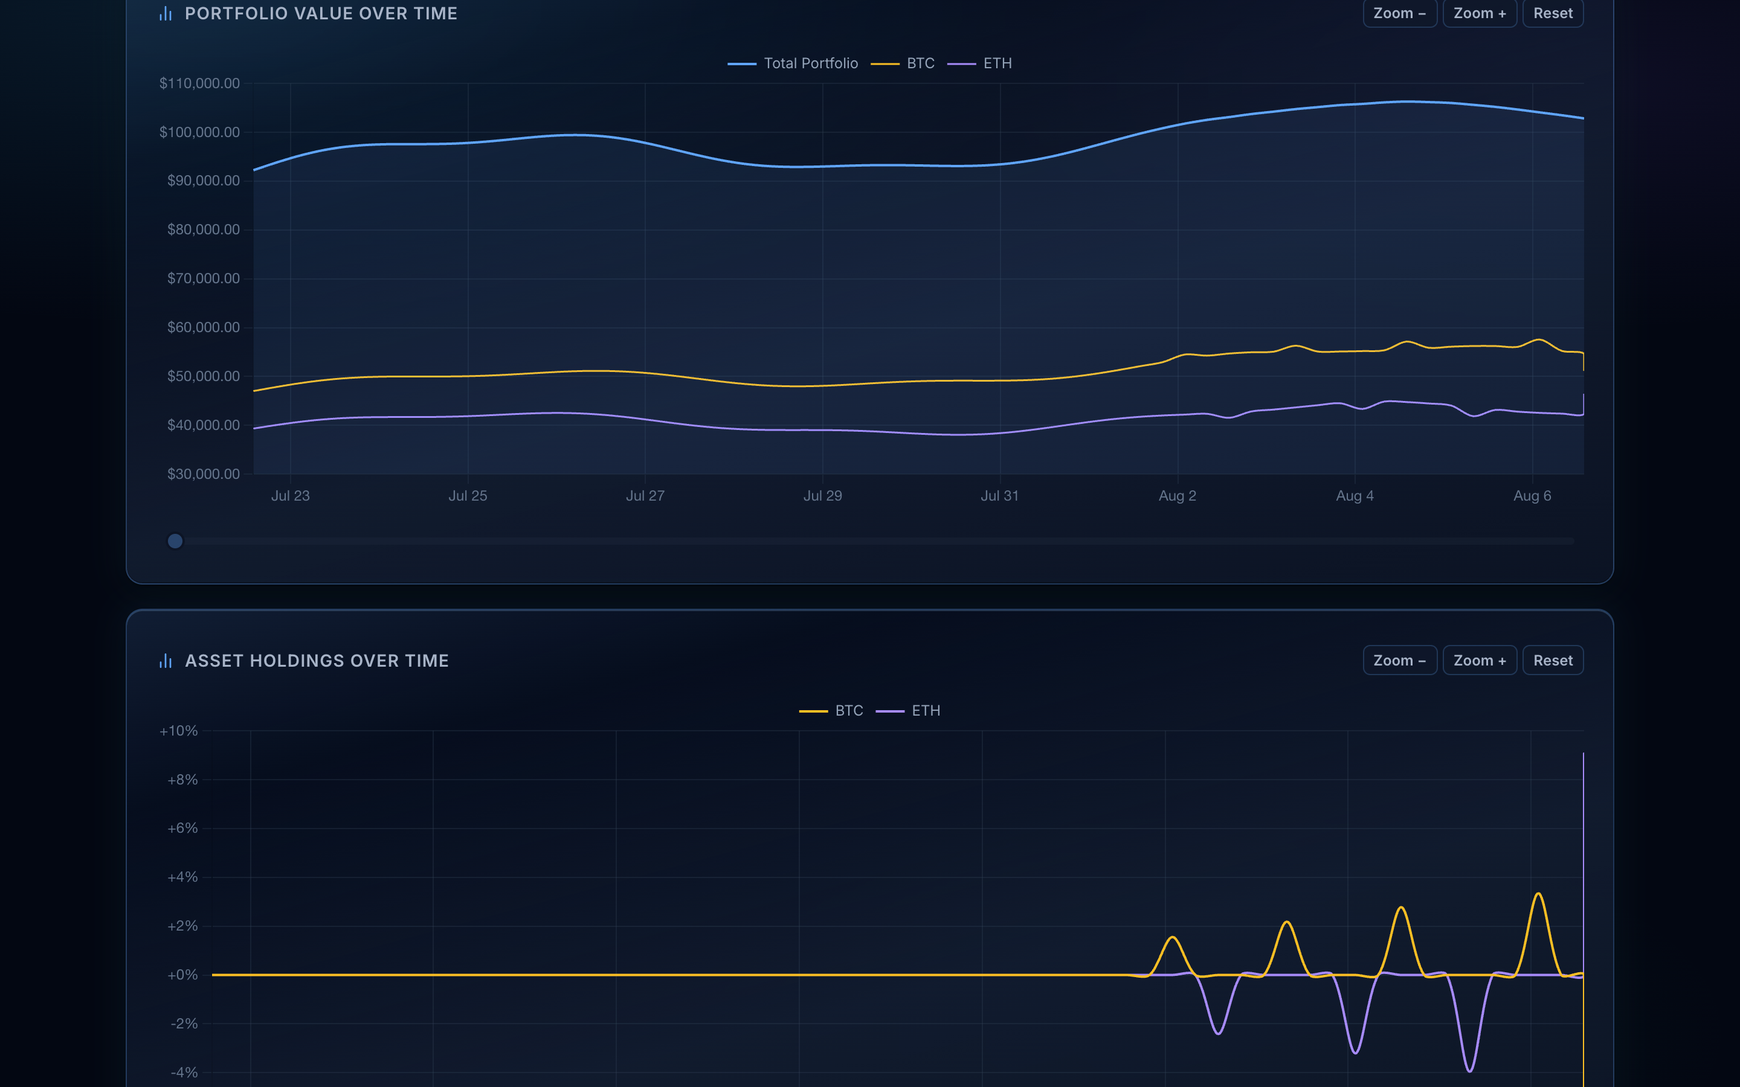
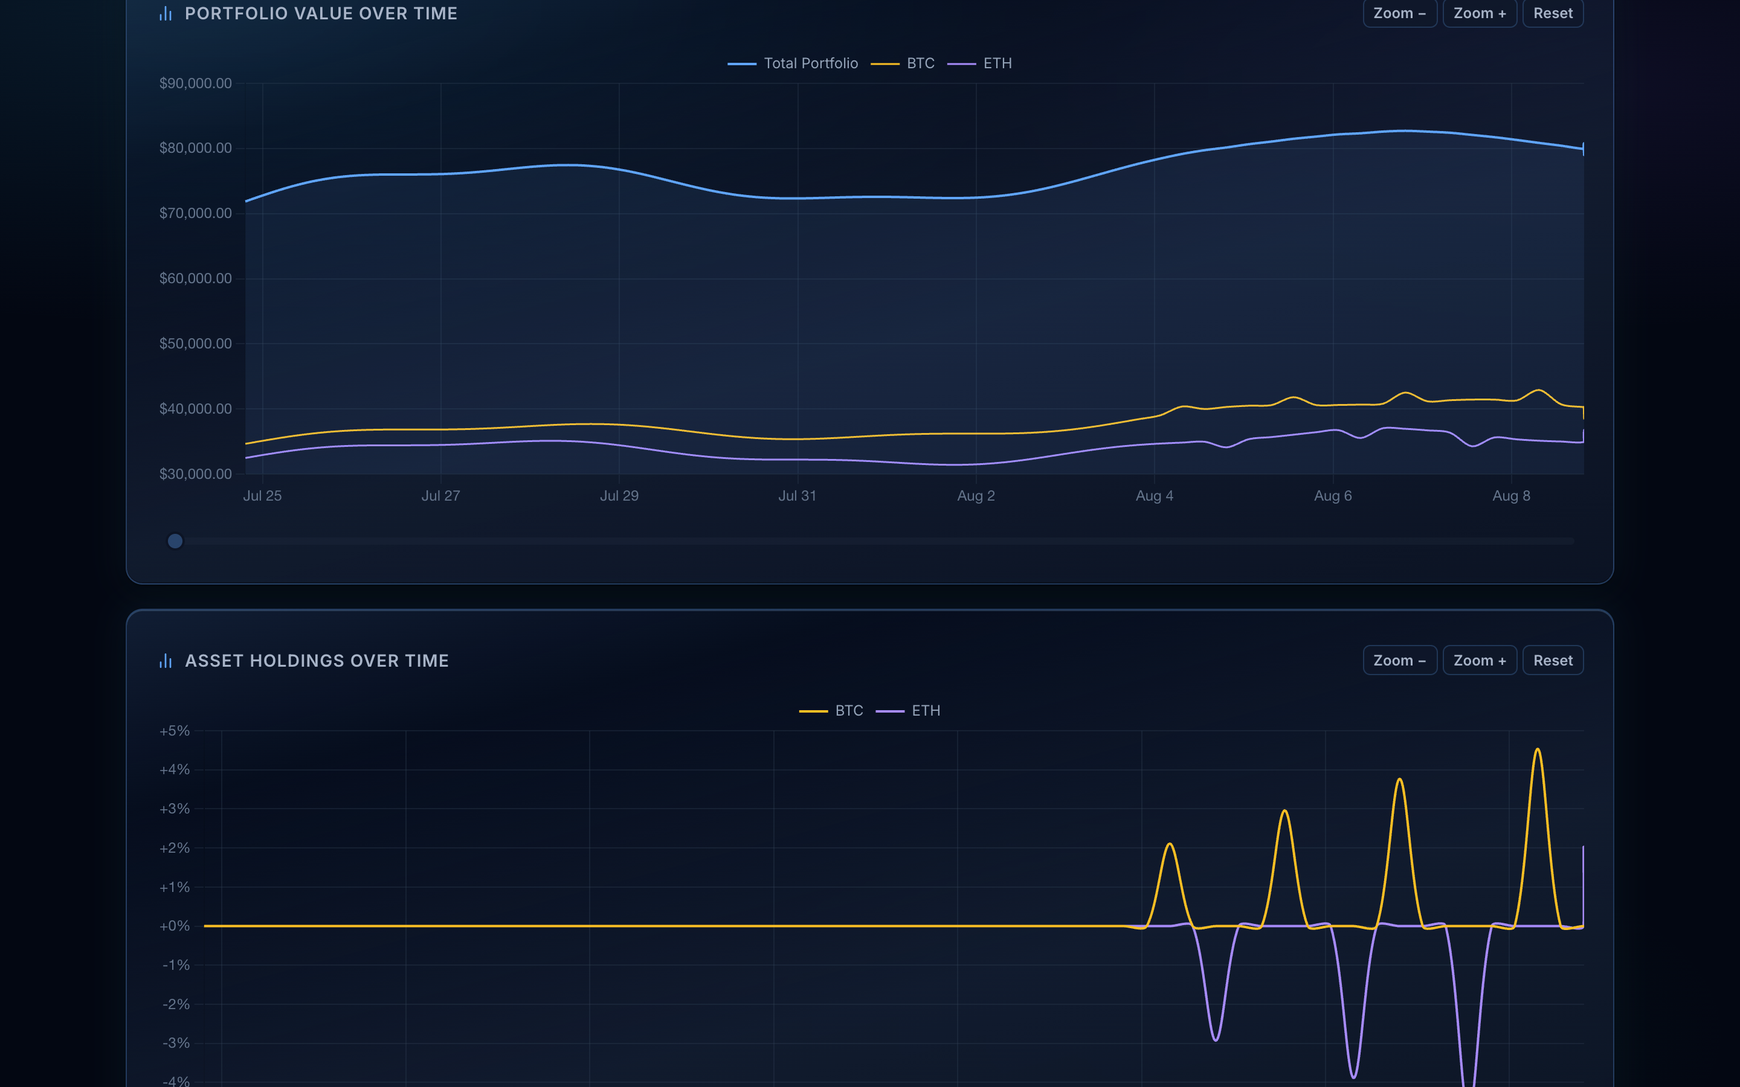
fix: harden operator loop controls and sync docs

diff --git a/src/test/kotlin/com/gemini/krakenbot/controller/ServerFeaturesIntegrationTest.kt b/src/test/kotlin/com/gemini/krakenbot/controller/ServerFeaturesIntegrationTest.kt
@@ -26,9 +26,13 @@ import io.kotest.matchers.string.shouldNotContain
 import io.ktor.client.request.get
 import io.ktor.client.request.header
 import io.ktor.client.request.post
+import io.ktor.client.request.setBody
 import io.ktor.client.statement.bodyAsText
+import io.ktor.http.ContentType
 import io.ktor.http.HttpHeaders
 import io.ktor.http.HttpStatusCode
+import io.ktor.http.formUrlEncode
+import io.ktor.http.parametersOf
 import io.ktor.server.application.install
 import io.ktor.server.routing.get
 import io.ktor.server.routing.routing
@@ -36,9 +40,13 @@ import io.ktor.server.sse.SSE
 import io.ktor.server.testing.testApplication
 import io.mockk.every
 import io.mockk.mockk
+import io.mockk.verify
 import org.koin.core.context.startKoin
 import org.koin.core.context.stopKoin
 import org.koin.dsl.module
+
+private const val TEST_CSRF_TOKEN = "test-token"
+private const val TEST_CSRF_COOKIE = "rebalancer-csrf=$TEST_CSRF_TOKEN"
 
 class ServerFeaturesIntegrationTest : StringSpec() {
     override fun isolationMode() = IsolationMode.InstancePerTest
@@ -165,7 +173,11 @@ class ServerFeaturesIntegrationTest : StringSpec() {
                     install(SSE)
                     dashboardRouting()
                 }
-                val pauseResponse = client.post("/api/pause")
+                val pauseResponse = client.post("/api/pause") {
+                    setBody(parametersOf("csrfToken", TEST_CSRF_TOKEN).formUrlEncode())
+                    header(HttpHeaders.ContentType, ContentType.Application.FormUrlEncoded.toString())
+                    header(HttpHeaders.Cookie, TEST_CSRF_COOKIE)
+                }
                 pauseResponse.status shouldBe HttpStatusCode.OK
                 pauseResponse.bodyAsText() shouldContain "true"
 
@@ -180,13 +192,43 @@ class ServerFeaturesIntegrationTest : StringSpec() {
                     install(SSE)
                     dashboardRouting()
                 }
-                client.post("/api/pause")
-                val resumeResponse = client.post("/api/resume")
+                client.post("/api/pause") {
+                    setBody(parametersOf("csrfToken", TEST_CSRF_TOKEN).formUrlEncode())
+                    header(HttpHeaders.ContentType, ContentType.Application.FormUrlEncoded.toString())
+                    header(HttpHeaders.Cookie, TEST_CSRF_COOKIE)
+                }
+                val resumeResponse = client.post("/api/resume") {
+                    setBody(parametersOf("csrfToken", TEST_CSRF_TOKEN).formUrlEncode())
+                    header(HttpHeaders.ContentType, ContentType.Application.FormUrlEncoded.toString())
+                    header(HttpHeaders.Cookie, TEST_CSRF_COOKIE)
+                }
                 resumeResponse.status shouldBe HttpStatusCode.OK
                 resumeResponse.bodyAsText() shouldContain "false"
 
                 val healthAfterResume = client.get("/api/health")
                 healthAfterResume.bodyAsText() shouldContain "\"paused\":false"
+            }
+        }
+
+        "pause and resume endpoints reject requests without CSRF" {
+            testApplication {
+                application {
+                    install(SSE)
+                    dashboardRouting()
+                }
+                val pauseResponse = client.post("/api/pause") {
+                    setBody(parametersOf().formUrlEncode())
+                    header(HttpHeaders.ContentType, ContentType.Application.FormUrlEncoded.toString())
+                }
+                val resumeResponse = client.post("/api/resume") {
+                    setBody(parametersOf().formUrlEncode())
+                    header(HttpHeaders.ContentType, ContentType.Application.FormUrlEncoded.toString())
+                }
+
+                pauseResponse.status shouldBe HttpStatusCode.Forbidden
+                resumeResponse.status shouldBe HttpStatusCode.Forbidden
+                verify(exactly = 0) { portfolioManager.pauseLoop() }
+                verify(exactly = 0) { portfolioManager.resumeLoop() }
             }
         }
     }

diff --git a/src/main/kotlin/com/gemini/krakenbot/service/impl/PortfolioManagerImpl.kt b/src/main/kotlin/com/gemini/krakenbot/service/impl/PortfolioManagerImpl.kt
@@ -58,17 +58,18 @@ class PortfolioManagerImpl(
     private var applicationScope: CoroutineScope? = null
 
     override fun stopRebalancingLoop() {
-        val job = synchronized(lifecycleLock) {
+        synchronized(lifecycleLock) {
             isRunning = false
-            workerJob
+            isPaused = false
+            workerJob?.cancel()
         }
-        job?.cancel()
         log.info("Rebalancing loop stopped.")
     }
 
     override fun startRebalancingLoop() {
         synchronized(lifecycleLock) {
             isRunning = true
+            isPaused = false
         }
         log.info("Rebalancing loop started.")
     }
@@ -77,6 +78,7 @@ class PortfolioManagerImpl(
         val job = synchronized(lifecycleLock) {
             applicationScope = scope
             isRunning = true
+            isPaused = false
             val staleJob = workerJob
             if (staleJob != null && staleJob.isActive) {
                 staleJob
@@ -102,18 +104,14 @@ class PortfolioManagerImpl(
         synchronized(lifecycleLock) {
             isRunning = false
             isPaused = true
+            workerJob?.cancel()
         }
-        workerJob?.cancel()
         log.info("Rebalancing loop paused by operator.")
     }
 
     override fun resumeLoop() {
         val scope = applicationScope
             ?: throw IllegalStateException("Cannot resume without an active application scope")
-        synchronized(lifecycleLock) {
-            isRunning = true
-            isPaused = false
-        }
         startRebalancingLoop(scope)
         log.info("Rebalancing loop resumed.")
     }

diff --git a/src/test/kotlin/com/gemini/krakenbot/service/PortfolioManagerLoopTest.kt b/src/test/kotlin/com/gemini/krakenbot/service/PortfolioManagerLoopTest.kt
@@ -476,7 +476,24 @@ class PortfolioManagerLoopTest : StringSpec() {
                 every { configService.getConfig() } returns config
                 krakenService.balanceSupplier = { emptyMap() }
 
-                portfolioManager.startRebalancingLoop(this)
+                val firstWorkerStarted = CompletableDeferred<Unit>()
+                val secondWorkerStarted = CompletableDeferred<Unit>()
+                var startupSyncCalls = 0
+                coEvery { tradeHistoryService.syncLedgersFromKraken() } coAnswers {
+                    startupSyncCalls++
+                    when (startupSyncCalls) {
+                        1 -> {
+                            firstWorkerStarted.complete(Unit)
+                            awaitCancellation()
+                        }
+
+                        2 -> secondWorkerStarted.complete(Unit)
+                    }
+                }
+
+                val initialWorker = portfolioManager.startRebalancingLoop(this)
+                runCurrent()
+                firstWorkerStarted.isCompleted shouldBe true
                 portfolioManager.pauseLoop()
                 portfolioManager.isLoopPaused() shouldBe true
 
@@ -484,7 +501,9 @@ class PortfolioManagerLoopTest : StringSpec() {
                 runCurrent()
 
                 portfolioManager.isLoopPaused() shouldBe false
+                secondWorkerStarted.isCompleted shouldBe true
                 portfolioManager.stopRebalancingLoop()
+                initialWorker.join()
             }
         }
 

diff --git a/src/main/kotlin/com/gemini/krakenbot/controller/DashboardController.kt b/src/main/kotlin/com/gemini/krakenbot/controller/DashboardController.kt
@@ -366,13 +366,22 @@ class DashboardController(
     }
 
     private suspend fun RoutingContext.handlePostPause() {
+        if (!requireCsrf()) return
         portfolioManager.pauseLoop()
         respondJson(mapOf("paused" to true))
     }
 
     private suspend fun RoutingContext.handlePostResume() {
+        if (!requireCsrf()) return
         portfolioManager.resumeLoop()
         respondJson(mapOf("paused" to false))
+    }
+
+    private suspend fun RoutingContext.requireCsrf(): Boolean {
+        val params = call.receiveParameters()
+        if (CsrfProtection.isValid(call, params)) return true
+        call.respond(HttpStatusCode.Forbidden)
+        return false
     }
 
     private suspend fun RoutingContext.handleGetHealth() {

diff --git a/src/main/kotlin/com/gemini/krakenbot/controller/CsrfProtection.kt b/src/main/kotlin/com/gemini/krakenbot/controller/CsrfProtection.kt
@@ -11,7 +11,7 @@ import java.security.MessageDigest
 import java.security.SecureRandom
 import java.util.Base64
 
-/** Double-submit protection for the unauthenticated, LAN-accessible settings form. */
+/** Double-submit protection for unauthenticated, LAN-accessible mutations. */
 internal object CsrfProtection {
     private const val COOKIE_NAME = "rebalancer-csrf"
     private const val TOKEN_BYTES = 32

diff --git a/README.md b/README.md
@@ -107,13 +107,13 @@ with `npm install -g @slkiser/opencode-quota` if needed.
 | --------------- | ------------------------------------------------------------------------------------------------------------ |
 | **Language**    | Kotlin 2.4.10 (Kotlin Multiplatform: JVM + JS)                                                               |
 | **Backend**     | Ktor 3.5.2 (Netty engine), Koin 4.2.2 (DI), Jackson 2.22.1                                                   |
-| **Database**    | SQLite (via JetBrains Exposed ORM 1.3.1)                                                                     |
+| **Database**    | SQLite (via JetBrains Exposed ORM 1.4.0)                                                                     |
 | **HTTP Client** | Ktor CIO Client (async, coroutine-native)                                                                    |
 | **Concurrency** | Kotlin Coroutines (`kotlinx.coroutines` 1.11.0)                                                              |
 | **Frontend**    | Server-side HTML (kotlinx.html DSL + HTMX), kotlinx-css DSL, Ktor SSE + Client-side Kotlin/JS                |
 | **API**         | Kraken REST API with HMAC-SHA512 authentication                                                              |
-| **Testing**     | Kotest 6.2.3, MockK 1.14.11, JaCoCo (95% instr/95% line/95% method/90% branch), Karma/Istanbul (90/90/90/75) |
-| **Build**       | Gradle 9.6.1 (Kotlin DSL), Spotless 8.9.0 + ktlint 1.7.1                                                     |
+| **Testing**     | Kotest 6.2.3, MockK 1.14.11, JaCoCo 95/95/95/90, Karma/Istanbul 90/80/90/75                                  |
+| **Build**       | Gradle 9.7.0 (Kotlin DSL), Spotless 8.9.0 + ktlint 1.8.0                                                     |
 | **Codegen**     | JVM-only module with KSP processors for API mappers and YAML string catalogs                                 |
 | **Agent tools** | Optional Kilo Context Mode plugin for bounded large-output analysis; standard workflows remain portable      |
 
@@ -233,12 +233,12 @@ with a wide range of tools and paradigms:
 | **Languages**          | Kotlin 2.4 (current), Kotlin 2.x, Java 25, Go 1.26, TypeScript (all phases documented in CHANGELOG)                                   |
 | **Backend Frameworks** | Ktor 3.5.2 (current), Spring Boot 4, Ktor 2.3, NestJS, Express, Go `net/http`                                                         |
 | **DI / IoC**           | Koin 4.2.2 (current), Spring IoC (`@Autowired`), Koin 3.5, NestJS modules                                                             |
-| **Build Systems**      | Gradle 9.6.1 Kotlin DSL (current), Maven, npm / yarn, Go modules                                                                      |
+| **Build Systems**      | Gradle 9.7.0 Kotlin DSL (current), Maven, npm / yarn, Go modules                                                                      |
 | **Frontend**           | Kotlin/JS + kotlinx.html + HTMX (current), React, Angular (explored), Tailwind CSS v4, Chart.js                                       |
 | **HTTP Clients**       | Ktor CIO Client (current), OkHttp, Node.js native `fetch`, Go `net/http`                                                              |
 | **Concurrency**        | Kotlin Coroutines (current), Java `ScheduledExecutorService`, Go goroutines, Node.js event loop                                       |
 | **Testing**            | Kotest 6 + MockK + Karma/Istanbul (current), JUnit 5, Mockito, Vitest, Go `testing`                                                   |
-| **Coverage**           | JaCoCo 95%+ (Kotlin JVM), Karma/Istanbul 90/90/90/75 (Kotlin/JS) (current); Vitest, Go per-package gates (historical)                 |
+| **Coverage**           | JaCoCo 95%+ (Kotlin JVM), Karma/Istanbul 90/80/90/75 (Kotlin/JS) (current); Vitest, Go per-package gates (historical)                 |
 | **Serialization**      | Jackson 2.22.1, Go `encoding/json`, Zod schema validation                                                                             |
 | **Real-Time**          | Ktor Server-Sent Events (SSE), Kotlin `SharedFlow` (config changes + snapshot broadcasts), HTMX SSE extension                         |
 | **CI / Security**      | GitHub Actions, Dependabot, SHA-pinned actions, CVE patching (Netty, Logback, Jackson); CodeQL Java/Kotlin analysis enabled on `main` |
@@ -756,6 +756,8 @@ If you are modifying the client-side code in `frontend-js/` and want to compile 
 | `GET`  | `/fragments/dashboard`       | Dashboard fragment (HTMX)                                                |
 | `GET`  | `/api/status/stream`         | Server-Sent Events (SSE) stream for real-time portfolio snapshot updates |
 | `GET`  | `/api/health`                | Public health check endpoint returning app status and metrics (JSON)     |
+| `POST` | `/api/pause`                 | Pause loop (CSRF-protected)                                              |
+| `POST` | `/api/resume`                | Resume loop (CSRF-protected)                                             |
 | `GET`  | `/api/history/snapshots`     | Portfolio snapshots for History charts (JSON, `?range=`)                 |
 | `GET`  | `/api/history/trades`        | Trade log for History page (JSON, `?range=`)                             |
 | `GET`  | `/api/history/stats`         | History summary-card aggregates (JSON, `?range=`)                        |
@@ -799,7 +801,7 @@ To run JVM tests only:
 
 ### Frontend Kotlin/JS Tests
 
-The client-side browser logic is tested via Chrome Headless using Karma and verified with Istanbul code coverage check thresholds (**90% statements, 90% lines, 90% functions, 75% branches**).
+The client-side browser logic is tested via Chrome Headless using Karma and verified with Istanbul code coverage check thresholds (**90% statements, 80% functions, 90% lines, 75% branches**).
 
 To run JS browser tests only:
 

diff --git a/CHANGELOG.md b/CHANGELOG.md
@@ -22,6 +22,10 @@ to [Semantic Versioning](https://semver.org/spec/v2.0.0.html).
 - **Model router**: Fixed two Artificial Analysis benchmark-matching defects that made otherwise-eligible routes permanently invisible to selection. Routes whose capability cannot be assessed are never considered, so a failed match silently removed a model: (1) creator-prefixed catalog display names (`Tencent: Hy3`) failed to match bare AA rows (`hy3` plus a separate `model_creator` field) because for short model names the creator affix dominates similarity scoring — AA rows are now also matched on their creator-qualified spellings; (2) a trailing free-tier marker (`tencent/hy3:free`) scored 0.839 against the neighbouring `hy3-preview` row versus 0.833 against the correct `hy3` row, landing free variants on a benchmark row with no coding index — the marker is now stripped so a free variant matches the same row as its paid twin. A new `AA_MATCHER_VERSION` participates in the match-cache fingerprint so cached negative matches from an older matcher are recomputed rather than pinned (300 of 642 cached routes were pinned unmatched). Benchmark coverage rose from 342/642 to 486/656 routes.
 - **Comprehensive Quality Overhaul skill**: Documented launcher mechanics for implementer tracks after the first live run — `subagents.py` defaults `--timeout` to 900s, which killed 2 of 5 tracks mid-edit, so implementer waves (including retries) must pass `--timeout 1800`; `exit_code: None` at the timeout value means timed out while `exit_code: 1` means the worker errored; `--allow-edits` sets `read_only=False` for every track, which makes each worker's working directory the parent repo root rather than its worktree, so manifests must scope owned paths to `.worktrees/wt-<track>/` and every prompt must state the working-directory rule; and workers must write each finding's JSON immediately after implementing it, because a worker that dies mid-task otherwise leaves implemented code with no record of what it changed. Added a finalize-only retry pattern that closes out a failed track's substantial partial diff (make it self-consistent, document it, no new work) without consuming the one-retry allowance, and corrected Step 1, which still described workers as read-only while the rest of the skill treated them as implementers.
 
+- **Build/toolchain upgrades**: Updated Exposed `1.3.1` → `1.4.0`, ktlint `1.7.1` → `1.8.0`, kotlin-css-jvm `2026.7.7` → `2026.8.0`, and the Gradle wrapper `9.6.1` → `9.7.0`.
+- **CSS organization**: Split the monolithic navigation stylesheet into focused view/css modules while retaining the ordered `CssStyles` aggregator and existing cascade.
+- **Documentation screenshots**: Refreshed Dashboard, Settings, and History PNGs from an isolated simulation run so the captured controls and labels match the current UI.
+- **Health response**: Removed the unused `liveSubmissionsUnresolved` field; the operator-visible `paused` state remains available through `/api/health`.
 - **Refactor(codegen)**: Centralized repeated string literals in `ConfigServiceImpl` companion object (`LEGACY_DUST_THRESHOLD_KEY`, `NEW_MINIMUM_ORDER_SIZE_KEY`) and extracted `colorForSymbol()` helper from three near-identical `when` blocks in `ChartProps` via a private `SymbolColors` holder, matching constant-centralization and method-extraction patterns from the `refactor/Manual` branch.
 
 ### Fixed

diff --git a/SECURITY.md b/SECURITY.md
@@ -103,11 +103,12 @@ localhost, IPv4 and IPv6 loopback, `.local` hostnames, RFC1918 private ranges,
 and the `169.254.0.0/16` link-local range. This CORS policy is not a substitute
 for network access control.
 
-The settings mutation also uses a double-submit CSRF token. The Settings page
-issues an `HttpOnly`, `SameSite=Strict` cookie and embeds the matching token in
-the form; POST requests without both values are rejected. The cookie is not
-marked `Secure` because the intended private-network deployment supports HTTP
-LAN access. This reduces cross-site form submission risk without requiring
+Settings and operator loop-control mutations use a double-submit CSRF token. The
+Settings page issues an `HttpOnly`, `SameSite=Strict` cookie and embeds the
+matching token in forms; POST requests without both values are rejected. This
+covers `/settings`, `/api/pause`, and `/api/resume`. The cookie is not marked
+`Secure` because the intended private-network deployment supports HTTP LAN
+access. This reduces cross-site form submission risk without requiring
 authentication or restricting trusted LAN clients from opening the Settings
 page.
 

diff --git a/.agents/AGENTS.md b/.agents/AGENTS.md
@@ -88,11 +88,11 @@ the CLAUDE.md / Copilot stubs) so they get the same norms without Cursor.
 - **Language**: Kotlin **2.4.10** (KMP: JVM + JS)
 - **JDK**: **25** (`java.toolchain`)
 - **Backend**: Ktor **3.5.2** (Netty, Jackson, SSE, HTML), Koin **4.2.2**
-- **Database**: SQLite via JetBrains Exposed **1.3.1**
+- **Database**: SQLite via JetBrains Exposed **1.4.0**
 - **Concurrency**: `kotlinx.coroutines` **1.11.0** — prefer `Dispatchers.IO` for DB/network; no `GlobalScope`
 - **Frontend/codegen**: `kotlinx.html` + `kotlinx-css` + HTMX + Kotlin/JS (`:frontend-js` → `/static/rebalancer.js`); KSP **2.3.11** is required for Kotlin/JS Kotest discovery and the experimental JVM/common catalog processors
 - **Testing**: Kotest **6.2.3**, MockK **1.14.11**, Karma/Istanbul
-- **Formatting**: Spotless **8.9.0** + ktlint **1.7.1**, **120**-char line length; `allWarningsAsErrors` in all modules
+- **Formatting**: Spotless **8.9.0** + ktlint **1.8.0**, **120**-char line length; `allWarningsAsErrors` in all modules
 
 ### Architecture names (SRP)
 

diff --git a/.agents/skills/gradle-quality-gates/SKILL.md b/.agents/skills/gradle-quality-gates/SKILL.md
@@ -20,7 +20,7 @@ description: >-
 
 ## Formatting & compiler
 
-- **Spotless** + **ktlint 1.7.1**, `max_line_length = 120`
+- **Spotless** + **ktlint 1.8.0**, `max_line_length = 120`
 - Targets: `src/**/*.kt`, `common/src/**/*.kt`, `frontend-js/src/**/*.kt`, and
   `codegen/src/**/*.kt`
 - Excludes: none (all Kotlin under `src/**`, `common/src/**`, `frontend-js/src/**`, and
@@ -114,7 +114,8 @@ tests instead.
 
 | Metric | Min |
 | :--- | ---: |
-| Statements / functions / lines | 90% |
+| Statements / lines | 90% |
+| Functions | 80% |
 | Branches | 75% |
 
 ## CI / check commands
@@ -147,7 +148,7 @@ steps aligned with the workflow.
 ## Checklist
 
 - [ ] Spotless 120 + warnings-as-errors respected
-- [ ] JaCoCo 95/95/95/90 and Karma 90/90/90/75 quoted accurately
+- [ ] JaCoCo 95/95/95/90 and Karma 90/80/90/75 quoted accurately
 - [ ] Exclusions synced when packages change
 - [ ] CodeQL workflow and documented Action, language, and build mode stay aligned
 - [ ] KSP resources, metadata generation, JVM/JS compilation, and generated

diff --git a/.agents/skills/documentation-review/SKILL.md b/.agents/skills/documentation-review/SKILL.md
@@ -202,7 +202,7 @@ High-risk mismatch examples:
 - `dryRun` confused with `simulation`
 - Rate limiting described as “Mutex only” without call-counter `RateLimiter`
 - Algorithm missing fiat deployment / fiat correction / dust / 99% buy / 95% settle
-- Coverage stated as vague “75%+ JS” instead of Karma 90/90/90/75
+- Coverage stated as vague “75%+ JS” instead of Karma 90/80/90/75
 - Lint paths pointing at root `AGENTS.md` (file is `.agents/AGENTS.md`)
 - Evaluation suite tables out of sync with `EvaluationScenariosTest` or
   `SimulationEvaluationScenariosTest`
